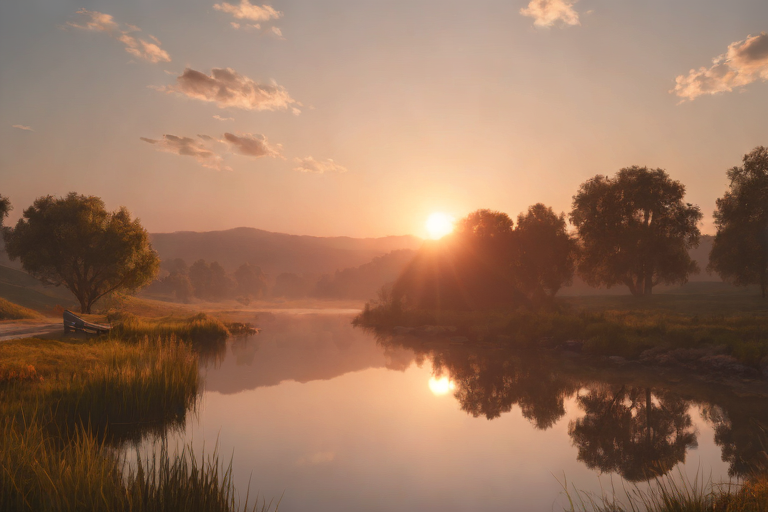
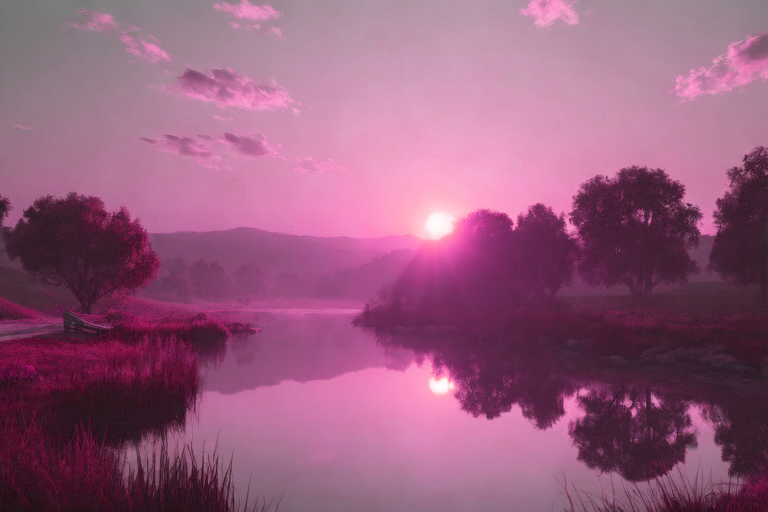
Monthly theme update

diff --git a/themes/Composr_CMS/css_custom/_colours.css b/themes/Composr_CMS/css_custom/_colours.css
@@ -15,21 +15,21 @@ See global.css for actual CSS rules.
 */
 
 /* Fundamental base colours */
-{$THEMEWIZARD_COLOR,#d37a3b,seed,100% d37a3b}
+{$THEMEWIZARD_COLOR,#7a5f6d,seed,100% 7a5f6d}
 {$THEMEWIZARD_COLOR,#6c757d,seed_secondary,100% 6c757d}
 {$THEMEWIZARD_COLOR,#FFFFFF,WB,100% FFFFFF}
 {$THEMEWIZARD_COLOR,#000000,BW,100% 000000}
 /*Theme seed is: e5922d*/
 
 /* WCAG compliance colours */
-{$THEMEWIZARD_COLOR,#fff9f4,seed_contrast_low,100% (seed contrast 3)} /* AA compliance */
-{$THEMEWIZARD_COLOR,#3e2411,seed_contrast_medium,100% (seed contrast 4.5)} /* AA + AAA (for large text) compliance */
+{$THEMEWIZARD_COLOR,#e0afc8,seed_contrast_low,100% (seed contrast 3)} /* AA compliance */
+{$THEMEWIZARD_COLOR,#ffdbee,seed_contrast_medium,100% (seed contrast 4.5)} /* AA + AAA (for large text) compliance */
 {$THEMEWIZARD_COLOR,#ffffff,seed_contrast_high,100% (seed contrast 7)} /* AA + AAA compliance */
 {$THEMEWIZARD_COLOR,#ffffff,seed_contrast_BW,100% (seed contrast 0)} /* AA + AAA compliance */
 
 /* The fundamental website */
-{$THEMEWIZARD_COLOR,#faede3,fixed_width_background,11% (seed sat_to 100) + 89% WB}
-{$THEMEWIZARD_COLOR,#e4ad87,fixed_width_border,61% seed + 39% WB}
+{$THEMEWIZARD_COLOR,#f0e3ea,fixed_width_background,11% (seed sat_to 100) + 89% WB}
+{$THEMEWIZARD_COLOR,#ad9da5,fixed_width_border,61% seed + 39% WB}
 {$THEMEWIZARD_COLOR,#ffffff,main_background,100% WB}
 {$THEMEWIZARD_COLOR,#f2f2f2,main_2_background,95% WB + 5% BW}
 
@@ -66,20 +66,20 @@ See global.css for actual CSS rules.
 {$THEMEWIZARD_COLOR,#dff2e3,light_success_background_2,85% WB + 15% success_color}
 {$THEMEWIZARD_COLOR,#cc0000,red_highlight_text,80% FF0000 + 20% 000000}
 {$THEMEWIZARD_COLOR,#007a00,green_highlight_text,100% 007A00}
-{$THEMEWIZARD_COLOR,#f8e2df,required_background,60% (area_4_background hue_to 0) + 40% area_background}
-{$THEMEWIZARD_COLOR,#f8e6e2,required_2_background,40% (area_4_background hue_to 0) + 60% area_background}
+{$THEMEWIZARD_COLOR,#e9e5e6,required_background,60% (area_4_background hue_to 0) + 40% area_background}
+{$THEMEWIZARD_COLOR,#ebe7e8,required_2_background,40% (area_4_background hue_to 0) + 60% area_background}
 {$THEMEWIZARD_COLOR,#000000,dark_shadow,100% BW}
 
 /* For standard elements */
 {$THEMEWIZARD_COLOR,#1a1a1a,body_color,90% BW + 10% WB}
-{$THEMEWIZARD_COLOR,#a05d2d,heading_text,76% seed + 24% BW}
-{$THEMEWIZARD_COLOR,#8d5228,a.link,67% seed + 33% BW}
-{$THEMEWIZARD_COLOR,#6a3e1e,a.hover,75% a.link + 25% BW}
-{$THEMEWIZARD_COLOR,#ffb884,a.link_light,67% (seed val_to 100) + 33% FFFFFF}
-{$THEMEWIZARD_COLOR,#ffcaa3,a.hover_light,75% a.link_light + 25% FFFFFF}
-{$THEMEWIZARD_COLOR,#f0d1bb,th_secondary_text,35% seed + 65% WB}
-{$THEMEWIZARD_COLOR,#eac1a4,hr,60% area_background + 40% seed}
-{$THEMEWIZARD_COLOR,#a05d2d,divider_line,76% seed + 24% BW}
+{$THEMEWIZARD_COLOR,#5d4853,heading_text,76% seed + 24% BW}
+{$THEMEWIZARD_COLOR,#524049,a.link,67% seed + 33% BW}
+{$THEMEWIZARD_COLOR,#3e3037,a.hover,75% a.link + 25% BW}
+{$THEMEWIZARD_COLOR,#ffd9ed,a.link_light,67% (seed val_to 100) + 33% FFFFFF}
+{$THEMEWIZARD_COLOR,#ffe3f2,a.hover_light,75% a.link_light + 25% FFFFFF}
+{$THEMEWIZARD_COLOR,#d1c7cc,th_secondary_text,35% seed + 65% WB}
+{$THEMEWIZARD_COLOR,#c1b4bb,hr,60% area_background + 40% seed}
+{$THEMEWIZARD_COLOR,#5d4853,divider_line,76% seed + 24% BW}
 
 {$THEMEWIZARD_COLOR,#ffffff,text_light,100% ffffff}
 {$THEMEWIZARD_COLOR,#212529,text_dark,100% 212529}
@@ -87,61 +87,61 @@ See global.css for actual CSS rules.
 /* Borders */
 {$THEMEWIZARD_COLOR,#dddddd,standard_border,100% DDDDDD}
 {$THEMEWIZARD_COLOR,#9b9b9b,dark_border,70% standard_border + 30% BW}
-{$THEMEWIZARD_COLOR,#f1d3be,pale_border,33% seed + 67% WB}
-{$THEMEWIZARD_COLOR,#f1d3be,point_of_interest_border,33% seed + 67% WB}
+{$THEMEWIZARD_COLOR,#d3cacf,pale_border,33% seed + 67% WB}
+{$THEMEWIZARD_COLOR,#d3cacf,point_of_interest_border,33% seed + 67% WB}
 
 /* Backgrounds (quiet a variety, as we need to be able to stack them, to have both hover and active effects, to have zebra striping, and various other levels of perceived focus) */
-{$THEMEWIZARD_COLOR,#faf0e9,area_background,11% seed + 89% WB}
-{$THEMEWIZARD_COLOR,#f9ebe2,area_2_background,15% seed + 85% WB}
-{$THEMEWIZARD_COLOR,#fbf3ee,area_3_background,60% area_2_background + 40% WB}
-{$THEMEWIZARD_COLOR,#f6e4d8,area_4_background,20% seed + 80% WB}
-{$THEMEWIZARD_COLOR,#fdfbf9,area_5_background,3% seed + 97% WB}
-{$THEMEWIZARD_COLOR,#dea67e,area_light_background,65% (seed val_to 80) + 35% WB}
-{$THEMEWIZARD_COLOR,#fbf3ed,area_faded_background,80% area_background + 20% WB}
-{$THEMEWIZARD_COLOR,#fdfbf9,area_zebra_background,100% area_5_background}
+{$THEMEWIZARD_COLOR,#f0edef,area_background,11% seed + 89% WB}
+{$THEMEWIZARD_COLOR,#ebe7e9,area_2_background,15% seed + 85% WB}
+{$THEMEWIZARD_COLOR,#f3f1f2,area_3_background,60% area_2_background + 40% WB}
+{$THEMEWIZARD_COLOR,#e4dfe2,area_4_background,20% seed + 80% WB}
+{$THEMEWIZARD_COLOR,#fbfafa,area_5_background,3% seed + 97% WB}
+{$THEMEWIZARD_COLOR,#dec0cf,area_light_background,65% (seed val_to 80) + 35% WB}
+{$THEMEWIZARD_COLOR,#f3f1f2,area_faded_background,80% area_background + 20% WB}
+{$THEMEWIZARD_COLOR,#fbfafa,area_zebra_background,100% area_5_background}
 {$THEMEWIZARD_COLOR,#ffffff,area_hover_background,100% WB}
-{$THEMEWIZARD_COLOR,#f6e4d8,area_hover_2_background,20% seed + 80% WB}
+{$THEMEWIZARD_COLOR,#e4dfe2,area_hover_2_background,20% seed + 80% WB}
 {$THEMEWIZARD_COLOR,#ffffff,area_current_background,100% WB}
-{$THEMEWIZARD_COLOR,#f2e4db,point_of_interest_background,97% area_2_background + 2% BW}
+{$THEMEWIZARD_COLOR,#e4e0e2,point_of_interest_background,97% area_2_background + 2% BW}
 {$THEMEWIZARD_COLOR,#444444,panel_bottom_background,100% 444444}
 {$THEMEWIZARD_COLOR,#333333,footer_background,100% 333333}
 {$THEMEWIZARD_COLOR,#333333,tooltip_background,100% 333333}
 {$THEMEWIZARD_COLOR,#f0f2f4,input_disabled_background,67% E9ECEF + 33% WB}
 
 /* Backgrounds, employing color wheel theory */
-{$THEMEWIZARD_COLOR,#f6d8da,area_highlight_left_complement_background,20% (seed hue_add -21) + 80% WB}
-{$THEMEWIZARD_COLOR,#f6f4d8,area_highlight_right_complement_background,20% (seed hue_add +21) + 80% WB}
+{$THEMEWIZARD_COLOR,#e4dfe4,area_highlight_left_complement_background,20% (seed hue_add -21) + 80% WB}
+{$THEMEWIZARD_COLOR,#e4dfdf,area_highlight_right_complement_background,20% (seed hue_add +21) + 80% WB}
 
 /* Buttons */
-{$THEMEWIZARD_COLOR,#c87438,button_primary,95% seed + 5% BW}
+{$THEMEWIZARD_COLOR,#745a68,button_primary,95% seed + 5% BW}
 {$THEMEWIZARD_COLOR,#ffffff,button_primary_text,100% (button_primary contrast 0)}
 
 /* Text */
-{$THEMEWIZARD_COLOR,#2a180c,slightly_seeded_text,20% seed + 80% BW}
-{$THEMEWIZARD_COLOR,#fdfbf9,slightly_seeded_pale_text,3% seed + 97% WB}
-{$THEMEWIZARD_COLOR,#53453c,slightly_seeded_gray_text,20% WB + 65% BW + 15% seed}
-{$THEMEWIZARD_COLOR,#894f26,area_text,65% seed + 35% BW}
-{$THEMEWIZARD_COLOR,#704e34,area_key_text,53% (seed sat_to 53) + 47% BW}
-{$THEMEWIZARD_COLOR,#743b11,area_link,55% (seed sat_to 86) + 45% BW}
+{$THEMEWIZARD_COLOR,#181316,slightly_seeded_text,20% seed + 80% BW}
+{$THEMEWIZARD_COLOR,#fbfafa,slightly_seeded_pale_text,3% seed + 97% WB}
+{$THEMEWIZARD_COLOR,#454143,slightly_seeded_gray_text,20% WB + 65% BW + 15% seed}
+{$THEMEWIZARD_COLOR,#4f3e47,area_text,65% seed + 35% BW}
+{$THEMEWIZARD_COLOR,#411e30,area_key_text,53% (seed sat_to 53) + 47% BW}
+{$THEMEWIZARD_COLOR,#430927,area_link,55% (seed sat_to 86) + 45% BW}
 {$THEMEWIZARD_COLOR,#0d0d0d,slightly_gray_text,95% BW + 5% WB}
 
 /* Special colour for box titles */
 {$THEMEWIZARD_COLOR,#f2f2f2,box_title_background,100% main_2_background}
-{$THEMEWIZARD_COLOR,#c87438,box_title_background_2,95% seed + 5% BW}
+{$THEMEWIZARD_COLOR,#745a68,box_title_background_2,95% seed + 5% BW}
 {$THEMEWIZARD_COLOR,#1a1a1a,box_title_text,90% BW + 10% WB}
-{$THEMEWIZARD_COLOR,#6a3e1e,box_title_text_hover,100% a.hover}
+{$THEMEWIZARD_COLOR,#3e3037,box_title_text_hover,100% a.hover}
 {$THEMEWIZARD_COLOR,#ffffff,box_title_text_2,100% (box_title_background_2 contrast 0)}
-{$THEMEWIZARD_COLOR,#faf2ec,box_title_link,90% (box_title_background_2 contrast 0) + 10% box_title_background_2}
+{$THEMEWIZARD_COLOR,#f2eff0,box_title_link,90% (box_title_background_2 contrast 0) + 10% box_title_background_2}
 
 /* Special colour for code/quote boxes */
-{$THEMEWIZARD_COLOR,#d37a3b,code_title_background,100% seed}
-{$THEMEWIZARD_COLOR,#403f3e,code_text,25% code_background + 85% BW}
-{$THEMEWIZARD_COLOR,#fefbf9,code_background,25% area_background + 75% WB}
-{$THEMEWIZARD_COLOR,#d37a3b,code_border,100% seed}
+{$THEMEWIZARD_COLOR,#7a5f6d,code_title_background,100% seed}
+{$THEMEWIZARD_COLOR,#3f3f3f,code_text,25% code_background + 85% BW}
+{$THEMEWIZARD_COLOR,#fbfafb,code_background,25% area_background + 75% WB}
+{$THEMEWIZARD_COLOR,#7a5f6d,code_border,100% seed}
 
 /* Drop down menus should look 'above' the site */
 {$THEMEWIZARD_COLOR,#ffffff,dropdown_menu_item_background,100% WB}
-{$THEMEWIZARD_COLOR,#f6e4d8,dropdown_menu_item_background_hover,100% area_4_background}
+{$THEMEWIZARD_COLOR,#e4dfe2,dropdown_menu_item_background_hover,100% area_4_background}
 
 /* Global-level messages should stand out compared to other styling */
 {$THEMEWIZARD_COLOR,#f1f1f1,message_highlighted_part,40% standard_border + 60% WB}

diff --git a/themes/Composr_CMS/css_custom/_cns_colours.css b/themes/Composr_CMS/css_custom/_cns_colours.css
@@ -3,9 +3,9 @@
  Copyright (c) Christopher Graham, 2004-2024
 */
 
-{$THEMEWIZARD_COLOR,#7df671,cns_personal_post_background,50% 00FF00 + 50% area_2_background}
+{$THEMEWIZARD_COLOR,#76f475,cns_personal_post_background,50% 00FF00 + 50% area_2_background}
 {$THEMEWIZARD_COLOR,#000000,cns_personal_post_text,100% BW}
-{$THEMEWIZARD_COLOR,#fd7671,emphasis_background,50% FF0000 + 50% area_2_background}
-{$THEMEWIZARD_COLOR,#190c0b,emphasis_text,10% emphasis_background + 90% BW}
-{$THEMEWIZARD_COLOR,#fd7671,cns_polls_background,50% FF0000 + 50% area_2_background}
-{$THEMEWIZARD_COLOR,#190c0b,cns_polls_text,10% cns_polls_background + 90% BW}
+{$THEMEWIZARD_COLOR,#f67475,emphasis_background,50% FF0000 + 50% area_2_background}
+{$THEMEWIZARD_COLOR,#190c0c,emphasis_text,10% emphasis_background + 90% BW}
+{$THEMEWIZARD_COLOR,#f67475,cns_polls_background,50% FF0000 + 50% area_2_background}
+{$THEMEWIZARD_COLOR,#190c0c,cns_polls_text,10% cns_polls_background + 90% BW}

diff --git a/themes/Composr_CMS/css_custom/_install_colours.css b/themes/Composr_CMS/css_custom/_install_colours.css
@@ -5,6 +5,6 @@
 
 {$THEMEWIZARD_COLOR,#ffffff,installer_background_text,100% WB}
 {$THEMEWIZARD_COLOR,#f2f2f2,installer_background_text_hover,5% BW + 95% WB}
-{$THEMEWIZARD_COLOR,#d3722a,installer_background_a,seed sat_to 80}
-{$THEMEWIZARD_COLOR,#d39669,installer_background_b,seed sat_to 50}
+{$THEMEWIZARD_COLOR,#7a184b,installer_background_a,seed sat_to 80}
+{$THEMEWIZARD_COLOR,#7a3d5c,installer_background_b,seed sat_to 50}
 {$THEMEWIZARD_COLOR,#ffffff,external_tool_background,100% FFFFFF}
